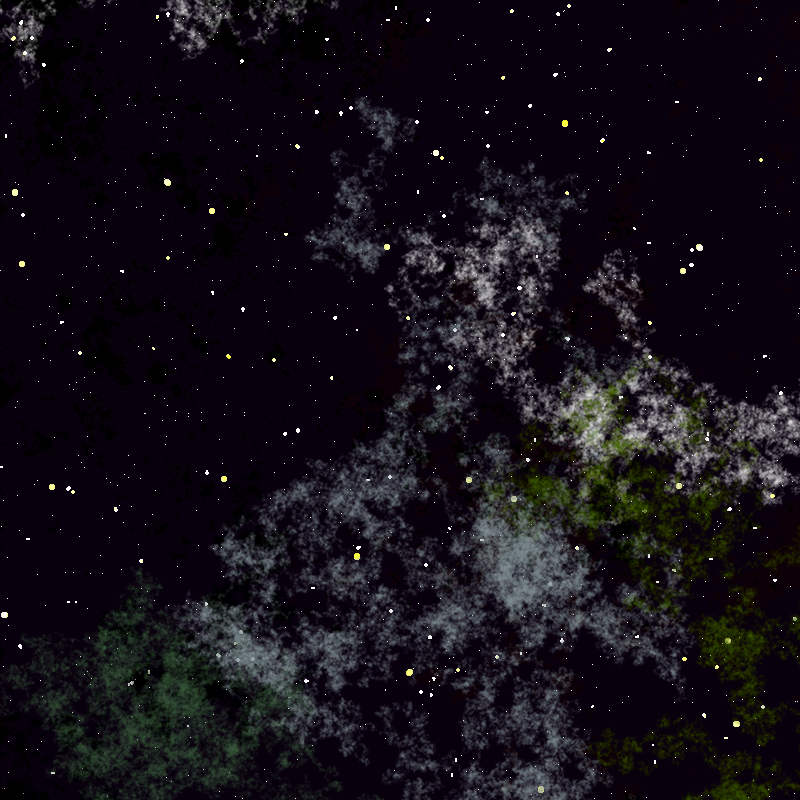
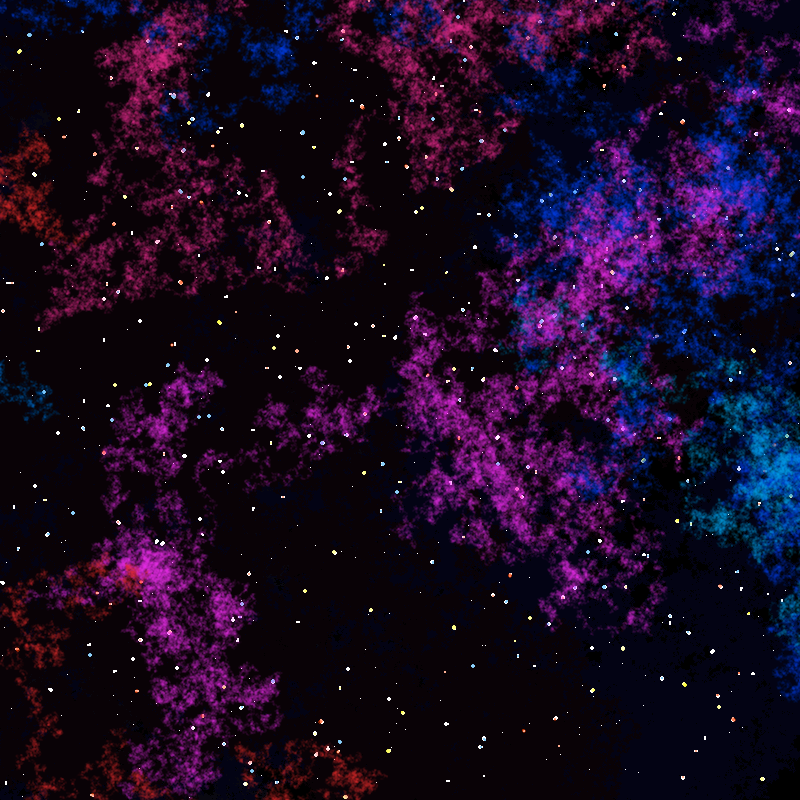
Examples update, small corrections

diff --git a/src/SpaceGenerator.cpp b/src/SpaceGenerator.cpp
@@ -87,7 +87,7 @@ ALLEGRO_BITMAP* SpaceGenerator::Generate()
     {
         signed int x = w_distribution(rndgenerator), y = h_distribution(rndgenerator);
 
-        someshit(x, y, rand() % (w*h), al_map_rgb(1+rand()%20, 1+rand()%20,1+rand()%20));
+        someshit(x, y, rand() % (w*h), al_map_rgb(rand()%10, rand()%10,1+rand()%20));
         //someshit(x, y, rand() % (w*h), al_premul_rgba(1+rand()%255, 1+rand()%255,1+rand()%255, 1+rand()%25));
     }
 
@@ -108,24 +108,24 @@ ALLEGRO_BITMAP* SpaceGenerator::Generate()
                 int rng = rand() % 3;
                 if(rng == 0)
                 {
-                    r = rand() % 4;
+                    r = rand() % 3;
                     al_draw_filled_circle(a, b, r, al_premul_rgba(255,255,150+rand()%10, 230 +rand()%15));
                     al_draw_filled_circle(a -1 + rand() % 3, b -1 + rand() % 3, r- rand()%4,
                                           al_premul_rgba(255,255,50+rand()%200, 230 +rand()%15));
                 }
                 else if(rng == 1)
                 {
-                    r = rand() % 4;
-                    al_draw_filled_circle(a, b, r, al_premul_rgba(255,204,153, 230 +rand()%15));
+                    r = rand() % 3; //255, 204, 153
+                    al_draw_filled_circle(a, b, r, al_premul_rgba(255,69,0, 100 +rand()%15));
                     al_draw_filled_circle(a -1 + rand() % 3, b -1 + rand() % 3, r- rand()%4,
-                                          al_premul_rgba(255,204,153, 230 +rand()%15));
+                                          al_premul_rgba(255,69,0, 100 +rand()%15));
                 }
                 else if(rng == 2)
                 {
-                    r = rand() % 4;
-                    al_draw_filled_circle(a, b, r, al_premul_rgba(204,229,255, 230 +rand()%15));
+                    r = rand() % 3; //304, 229, 255
+                    al_draw_filled_circle(a, b, r, al_premul_rgba(135,206,250, 230 +rand()%15));
                     al_draw_filled_circle(a -1 + rand() % 3, b -1 + rand() % 3, r- rand()%4,
-                                          al_premul_rgba(204,229,255, 230 +rand()%15));
+                                          al_premul_rgba(135,206,250, 230 +rand()%15));
                 }
             }
         }
